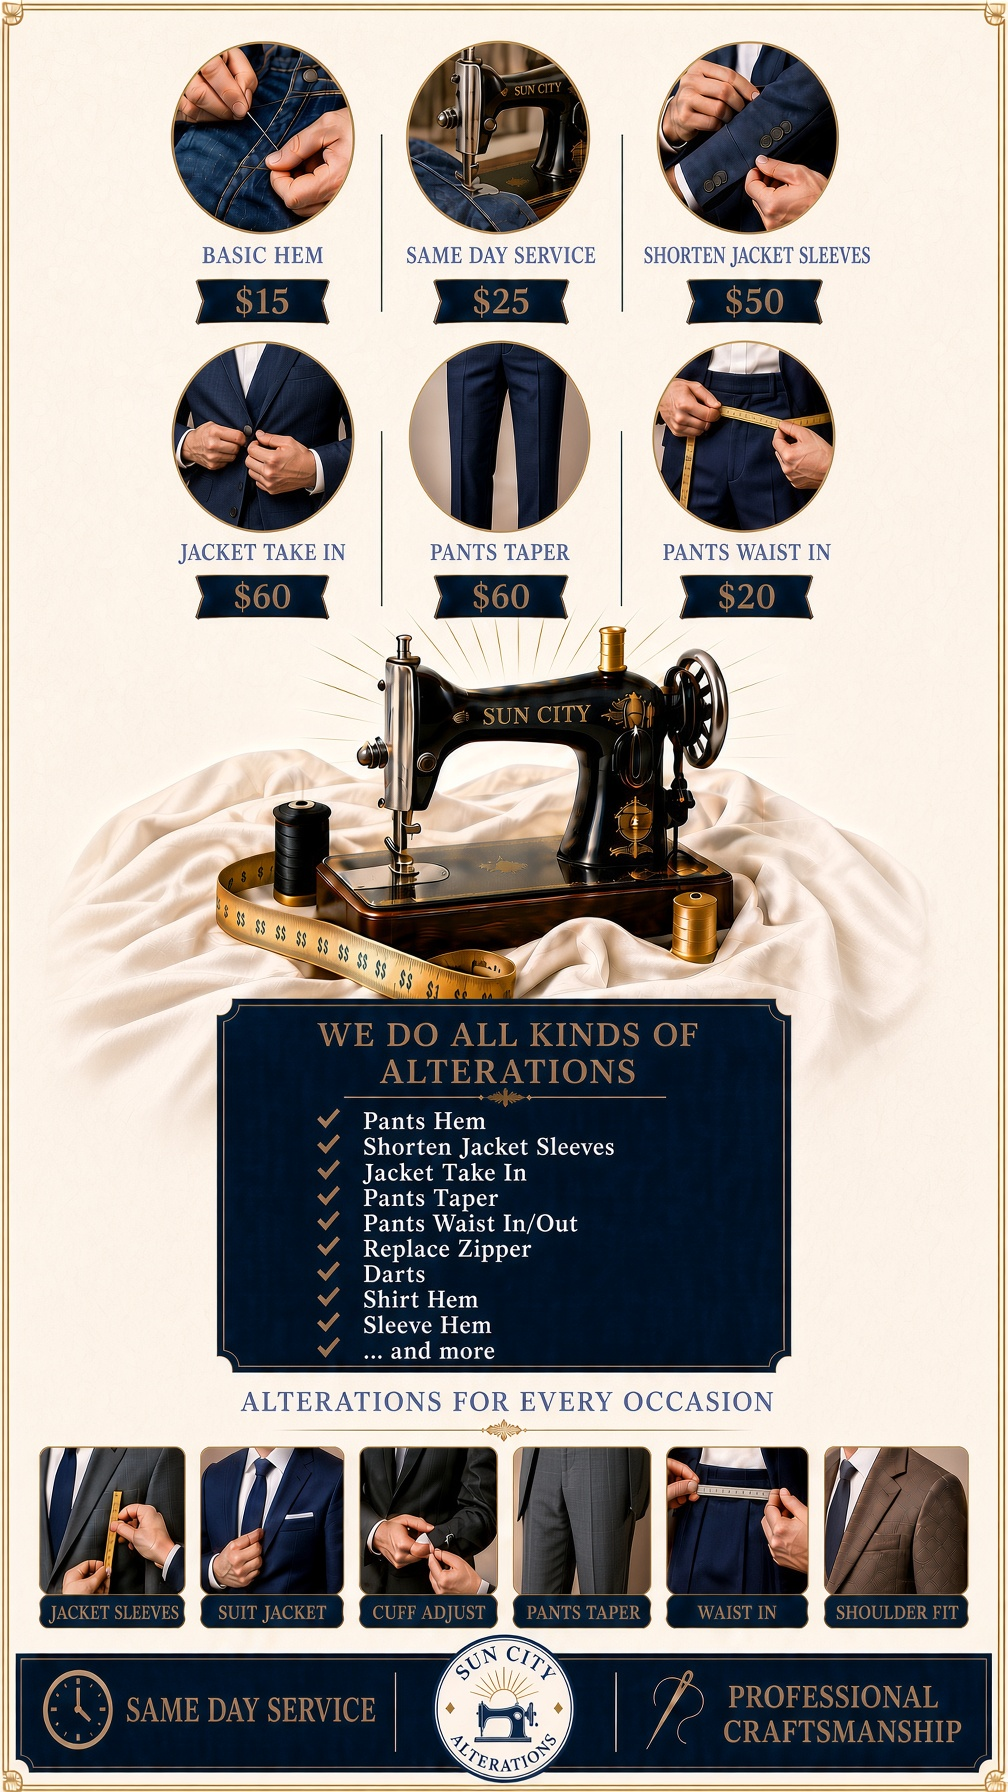
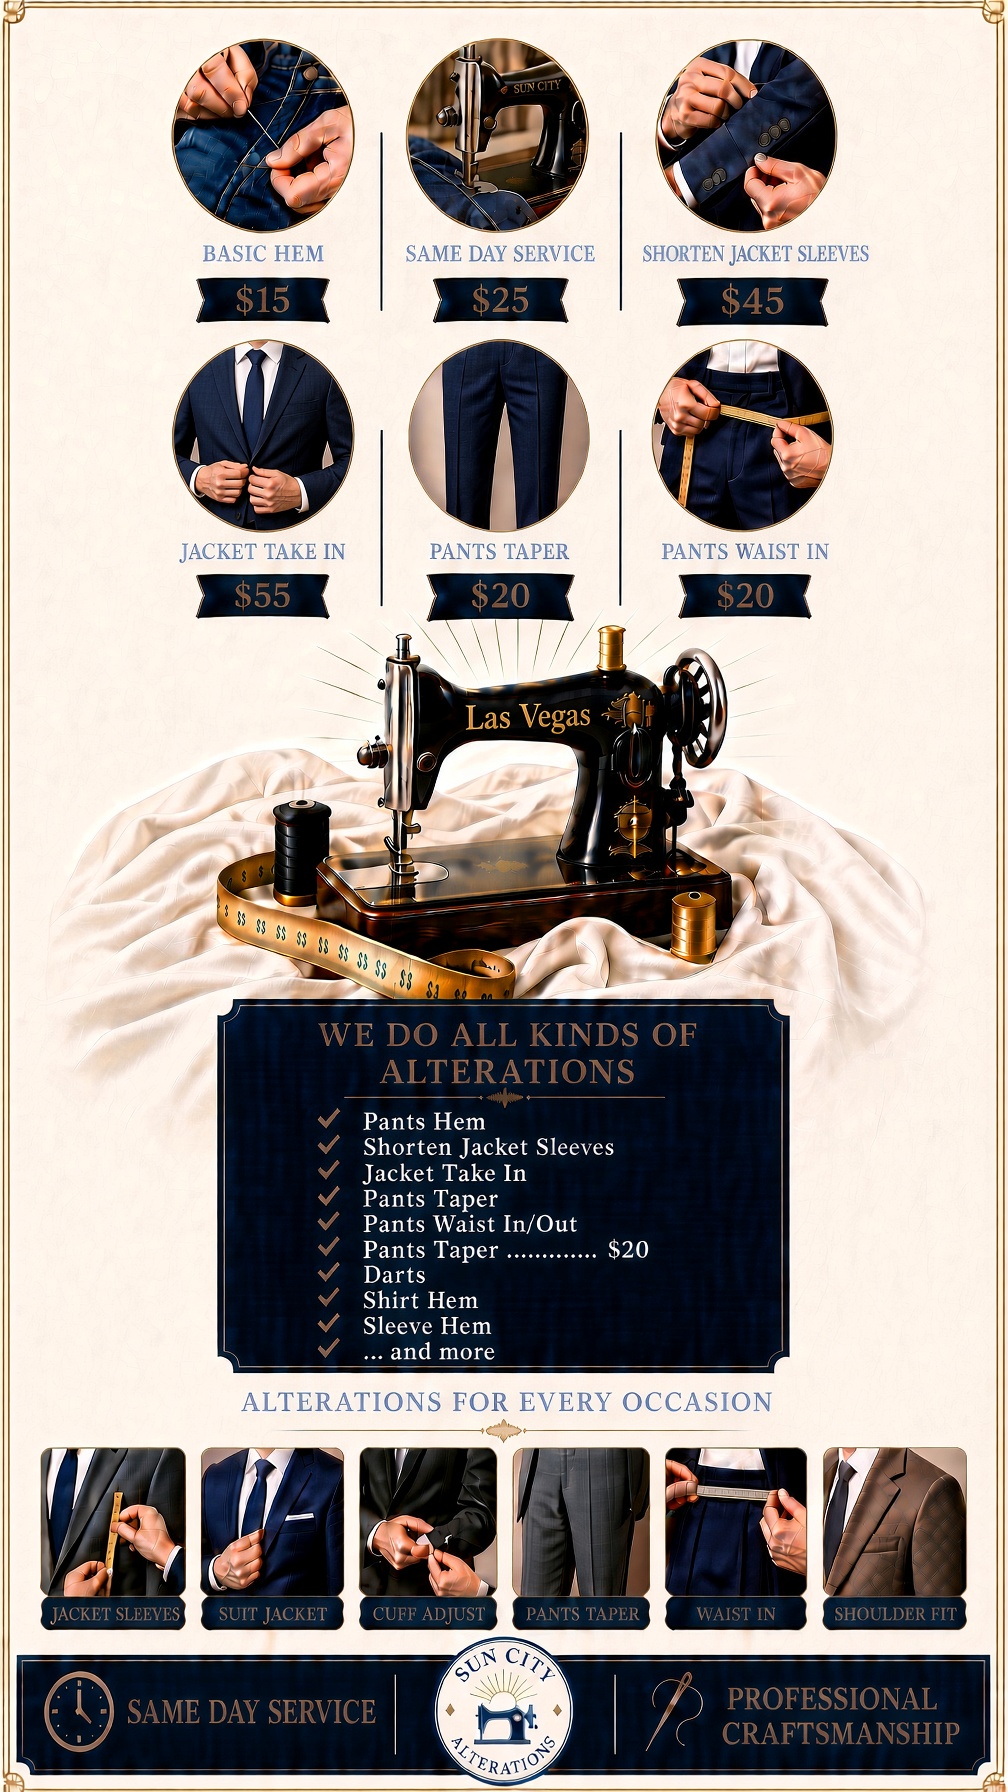
New portrait flyer with updated prices, shown on all screen sizes

diff --git a/index.html b/index.html
@@ -48,7 +48,7 @@ footer{background:#2e2a26;color:#cbbba5;text-align:center;padding:2rem 1rem;font
 .qf .row{display:flex;gap:1rem}.qf button{font-family:inherit;border:0;cursor:pointer;font-size:1rem;width:100%;margin:.3rem 0 0}
 .thanks{background:#fff3d6;border:1px solid var(--gold);color:var(--deep);border-radius:10px;padding:.9rem;text-align:center;font-weight:700;margin-bottom:1rem}
 @media(max-width:640px){.qf .row{display:block}.qf{padding:1.4rem}}
-.flyer{display:block;max-width:1000px;margin:auto}.flyer img{width:100%;height:auto;display:block;border-radius:16px;box-shadow:0 8px 28px rgba(90,58,34,.18);transition:transform .2s}.flyer img:hover{transform:scale(1.01)}
+.flyer{display:block;max-width:520px;margin:auto}.flyer img{width:100%;height:auto;display:block;border-radius:16px;box-shadow:0 8px 28px rgba(90,58,34,.18);transition:transform .2s}.flyer img:hover{transform:scale(1.01)}
 .badge{display:inline-block;margin-top:1rem;background:var(--deep);color:#f6dfae;border:1.5px solid var(--gold);padding:.45rem 1.2rem;border-radius:40px;font-weight:700;letter-spacing:.06em;text-transform:uppercase;font-size:.85rem}
 nav .wrap{position:relative}.menu{align-items:center}.dd{position:relative;display:flex;align-items:center;gap:.15rem}
 .ddbtn{background:none;border:0;color:var(--gold);font-size:1rem;cursor:pointer;padding:.2rem .3rem;border-radius:6px;transition:transform .2s}
@@ -99,7 +99,7 @@ nav .sub{position:static;width:100%;min-width:0;box-shadow:none;border:0;border-
 <div class="card" id="svc-repairs"><div class="ic">🧵</div><h3>Zippers &amp; Repairs</h3><p>Zipper replacement, tears, seams, buttons, and everyday mending.</p></div>
 <div class="card" id="svc-resizing"><div class="ic">✂</div><h3>Taking In &amp; Letting Out</h3><p>Resizing garments so your favorite clothes fit comfortably again.</p></div>
 </div></div></section>
-<section id="flyer" style="padding-top:0"><div class="wrap"><a class="flyer" id="flyerLink" href="img/flyer.jpg" target="_blank" rel="noopener"><picture><source media="(max-width:700px)" srcset="img/flyer-mobile.jpg"><img src="img/flyer.jpg" alt="Sun City Alterations flyer showing featured prices (Basic Hem $15, Same Day Service $25, Shorten Jacket Sleeves $50, Jacket Take In $60, Pants Taper $20, Pants Waist In $20), the list of alterations offered, examples of suit and jacket fittings, and Same Day Service and Professional Craftsmanship banners"></picture></a></div></section>
+<section id="flyer" style="padding-top:0"><div class="wrap"><a class="flyer" id="flyerLink" href="img/flyer-mobile.jpg" target="_blank" rel="noopener"><img id="flyerImg" src="img/flyer-mobile.jpg" width="1008" height="1792" alt="Sun City Alterations flyer showing featured prices (Basic Hem $15, Same Day Service $25, Shorten Jacket Sleeves $45, Jacket Take In $55, Pants Taper $20, Pants Waist In $20), the list of alterations offered, examples of suit and jacket fittings, and Same Day Service and Professional Craftsmanship banners"></a></div></section>
 <section id="all"><div class="wrap"><h2>We Do All Kinds of Alterations</h2><p class="sub">Don't see what you need? Just ask.</p><ul class="all"><li>Pants Hem</li><li>Shorten Jacket Sleeves</li><li>Jacket Take In</li><li>Pants Taper</li><li>Pants Waist In/Out</li><li>Replace Zipper</li><li>Darts (Take In)</li><li>Shirt Hem</li><li>Sleeve Hem (with Cuff)</li><li>Crossover Leg</li><li>Cutting Suspenders</li><li>Pleated School Skirts</li><li>Lined Hem</li></ul></div></section>
 <section id="why" class="why"><div class="wrap"><h2>Why Choose Us</h2><p class="sub">A family-run shop that treats your clothes like our own.</p>
 <div class="grid"><div class="card"><h3>30+ Years of Experience</h3><p>Decades of skilled tailoring behind every hem, fitting, and repair.</p></div>
@@ -137,7 +137,7 @@ nav .sub{position:static;width:100%;min-width:0;box-shadow:none;border:0;border-
 <label>Message<textarea name="message" rows="4" placeholder="Describe your garment and what you'd like done"></textarea></label>
 <button class="btn" type="submit">Send Request</button></form></div></div></section>
 <footer>© <span id="y"></span> Sun City Alterations · Tailoring &amp; Alterations · <span class="fsun" aria-hidden="true">☀</span> Las Vegas, NV<br>Monday – Saturday, 10 AM – 5 PM<br><a href="tel:+17029077273">(702) 907-7273</a> · <a href="mailto:hello@suncityalterations.com">hello@suncityalterations.com</a></footer>
-<script>document.getElementById('y').textContent=new Date().getFullYear();if(/[?&]sent=1/.test(location.search))document.getElementById('thanks').hidden=false;(function(){var a=document.getElementById('flyerLink');if(!a||!window.matchMedia)return;var m=matchMedia('(max-width:700px)');function u(){a.href=m.matches?'img/flyer-mobile.jpg':'img/flyer.jpg'}u();m.addEventListener&&m.addEventListener('change',u)})();(function(){var b=document.getElementById('burger'),m=document.getElementById('navmenu'),d=document.getElementById('ddbtn'),dd=d.parentNode;
+<script>document.getElementById('y').textContent=new Date().getFullYear();if(/[?&]sent=1/.test(location.search))document.getElementById('thanks').hidden=false;(function(){var b=document.getElementById('burger'),m=document.getElementById('navmenu'),d=document.getElementById('ddbtn'),dd=d.parentNode;
 function setDD(o){dd.classList.toggle('open',o);d.setAttribute('aria-expanded',o)}
 function setM(o){m.classList.toggle('open',o);b.setAttribute('aria-expanded',o);b.setAttribute('aria-label',o?'Close menu':'Open menu');if(!o)setDD(false)}
 b.addEventListener('click',function(){setM(b.getAttribute('aria-expanded')!=='true')});
